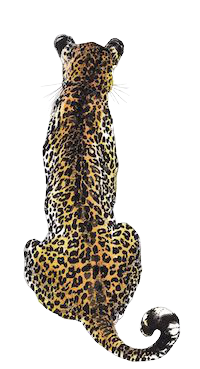
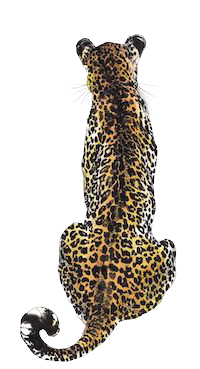
MAin divers

diff --git a/assets/css/style.css b/assets/css/style.css
@@ -103,17 +103,15 @@ main {
 .sub-main {
   width: 80%;
   margin: auto;
-}
-
-.tiger {
-  /* margin-top: 8rem; */
-  margin-bottom: -3.9rem;
+  padding-top: 3rem;
+  padding-bottom: 2rem;
 }
 
 /* FOOTER */
 
 footer {
   background-image: url("../photos/marbleenvers.jpeg");
+  background-color: rgba(233, 226, 206, 0.6);
   background-repeat: no-repeat;
   background-size: cover;
 }
@@ -160,13 +158,31 @@ footer {
 }
 
 .sub-footer-bottom {
-
+  display: flex;
+  flex-direction: row;
+  justify-content: space-between;
+  align-items: center;
+  font-family: 'Baloo Thambi 2', cursive;
+  font-weight: 600;
+  font-size: 1rem;
+  color: rgba(233, 226, 206, 1);
+  text-shadow: 0px 0px 4px rgba(46, 54, 71, 0.95);
+  padding: 2.5rem 0rem 1rem 0rem;
 }
 
 /* .......................................... */
 .outline {
   border: 1px solid rgba(255, 102, 255, 0.1);
 }
+
+hr {
+  background-color: rgb(255, 248, 140);
+  height: 0.5rem;
+  margin-block-start: 0rem;
+  margin-block-end: 0rem;
+  border-width: 0px;
+}
+
 /* TITRES */
 
 h1 {
@@ -217,6 +233,7 @@ h5 {
     -2px 2px 0 rgb(231, 159, 57),
      2px 2px 0 rgb(231, 159, 57); */
   letter-spacing: .2rem;
+  margin: 0rem 0rem 2rem 0rem;
 }
 
 /* p et span */
@@ -237,6 +254,10 @@ p {
 }
 .fas.fa-hand-point-left {
 
+}
+
+.fas.fa-map-pin {
+  transform: rotate(-45deg);
 }
 
 .fab.fa-twitter-square, .fab.fa-facebook-square, .fab.fa-instagram-square, .fab.fa-linkedin {
@@ -279,10 +300,14 @@ p {
   text-shadow: 0px 0px 15px 5px rgba(46, 54, 71, 1);
 } */
 
-/* PHOTOS */
+/*///////////////////// PHOTOS */
 
+.tiger {
+  margin-left: 61rem;
+  margin-bottom: -6rem;
+}
 
-/* INPUTS */
+/*///////////////////// INPUTS */
 
 .mailing-list {
   font-family: 'Roboto Mono', monospace;
@@ -296,7 +321,7 @@ p {
   width: 43%;
 }
 
-/* BUTTONS */
+/*///////////////////// BUTTONS */
 
 .light-button {
   border: none;
@@ -343,13 +368,35 @@ p {
   width: 49%;
 }
 
-/* LINKS */
+/*////////////////////////// LINKS */
 
+a {
+  font-family: 'Baloo Thambi 2', cursive;
+  font-weight: 600;
+  font-size: 1rem;
+  color: rgba(233, 226, 206, 1);
+  text-decoration: none;
+}
+a:hover {
+  text-decoration: none;
+  color: rgb(193, 209, 225);
+}
 
-/* LISTS */
+/*///////////////////////// LISTS */
 
+ul {
+  margin-top: 2rem;
+}
 
-/* FONTS
+li {
+  list-style-type: circle;
+  font-family: 'Roboto Mono', monospace;
+  font-size: 1rem;
+  font-weight: 400;
+  list-style-type: none;
+}
+
+/*///////////////////////// FONTS
 font-family: 'Anaheim', sans-serif;
 font-family: 'Baloo Chettan 2', cursive;
 font-family: 'Baloo Thambi 2', cursive;
@@ -365,10 +412,16 @@ font-family: 'VT323', monospace; */
 
 .theme-clair {
   color: rgba(46, 54, 71, 1);
-  background-color: rgba(233, 226, 206, 0.6);
+  background-color: rgba(233, 226, 206, 1);
+  ul {
+    color: rgba(46, 54, 71, 1);
+  }
 }
 
 .theme-sombre {
   background-color: rgba(46, 54, 71, 0.6);
   color: rgb(233, 226, 206);
+  ul {
+    color: rgb(233, 226, 206);
+  }
 }
